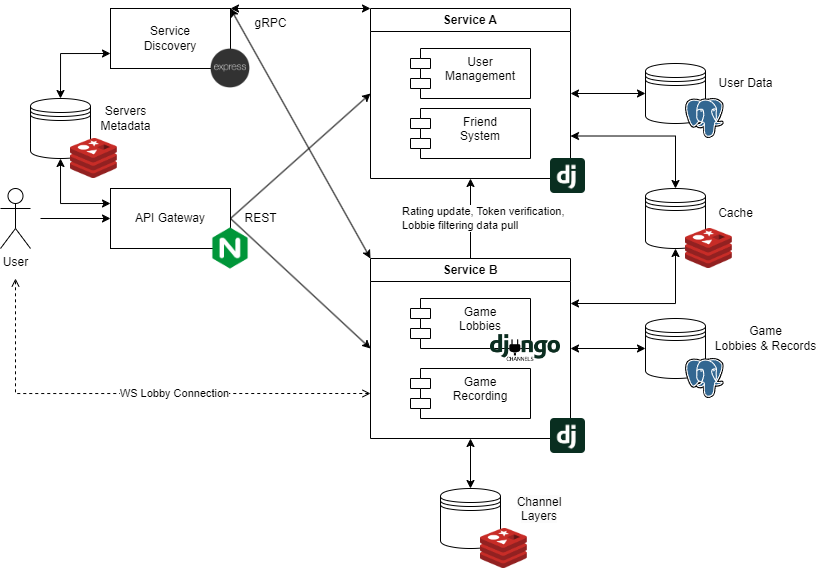
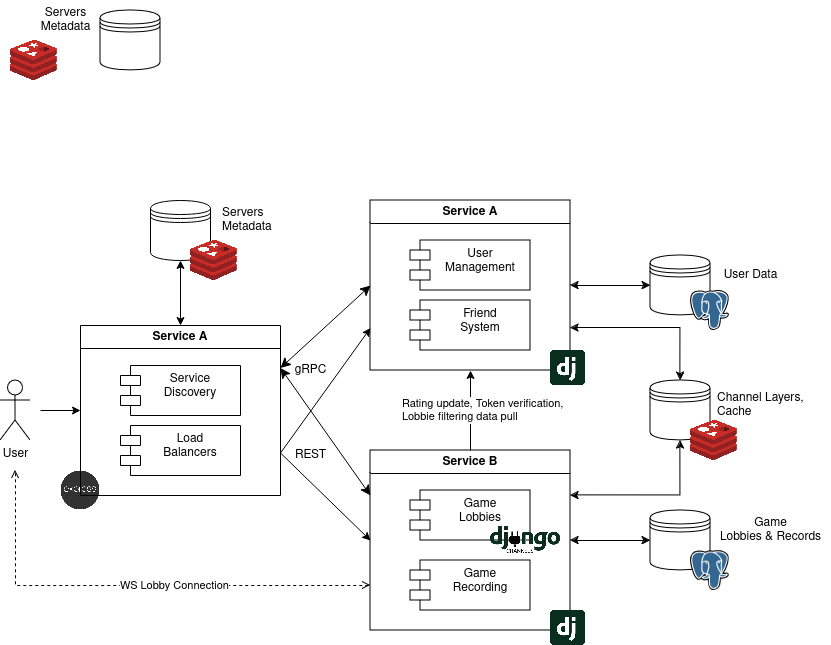
Updated doc-s

diff --git a/README.md b/README.md
@@ -16,10 +16,9 @@
 
 ### Technology Stack and Communication Patterns
 
-- Service A (**Python**): **Django** + **PostgreSQL** + **Redis** (caching)
-- Service B (**Python**): **Django** + **PostgreSQL** + **Dj Channels** (WS) + **Redis** (Channel Layers and caching)
-- API Gateway (Conf. lang. + Lua): **Nginix** + **Redis** (servers metadata src.)
-- Service Discovery (**JS**): **Express** + **Redis** (servers metadata dst.)
+- Service A (**Python**): **Django** + **PostgreSQL** + **Redis** (cache)
+- Service B (**Python**): **Django** + **PostgreSQL** + **Dj Channels** (WS) + **Redis** (Channel Layers and cache)
+- API Gateway (**JS**): **Express** + **Redis** (servers metadata)
 - Inter-service communication: RESTful APIs (CRUD) and gRPC (service discovery)
 
 ### Data Management Design (Main Endpoints)
@@ -50,7 +49,7 @@
             "access": string
         }
 
-4.  GET | /api/friends/search/?uname= - searches users by username
+3.  GET | /api/friends/search/?uname= - searches users by username
 
         expects: parameters in URL
 
@@ -63,13 +62,13 @@
             },
         ] - a list of matches
 
-5.  POST | /api/friends/requests/open/?to= - creates a friend request
+4.  POST | /api/friends/requests/open/?to= - creates a friend request
 
         expects: auth. token, parameters in URL
 
         on_succ: a confirmation message
 
-6.  GET | /api/friends/requests/list/my/ - gets all incoming friend requests
+5.  GET | /api/friends/requests/list/my/ - gets all incoming friend requests
 
         expects: auth. token
 
@@ -81,13 +80,13 @@
             }
         ] - a list of users requesting friendship
 
-7.  POST | /api/friends/requests/resolve/?id=&accepted= - resolves a friend request
+6.  POST | /api/friends/requests/resolve/?id=&accepted= - resolves a friend request
 
         expects: auth. token, parameters in URL
 
         on_succ: a confirmation message
 
-8.  PATCH | /api/users/rating/upd/?id=&delta= - updates user's rating
+7.  PATCH | /api/users/rating/upd/?id=&delta= - updates user's rating
 
         expects: parameters in URL, inter-service authorization credentials (B -> A)
 
